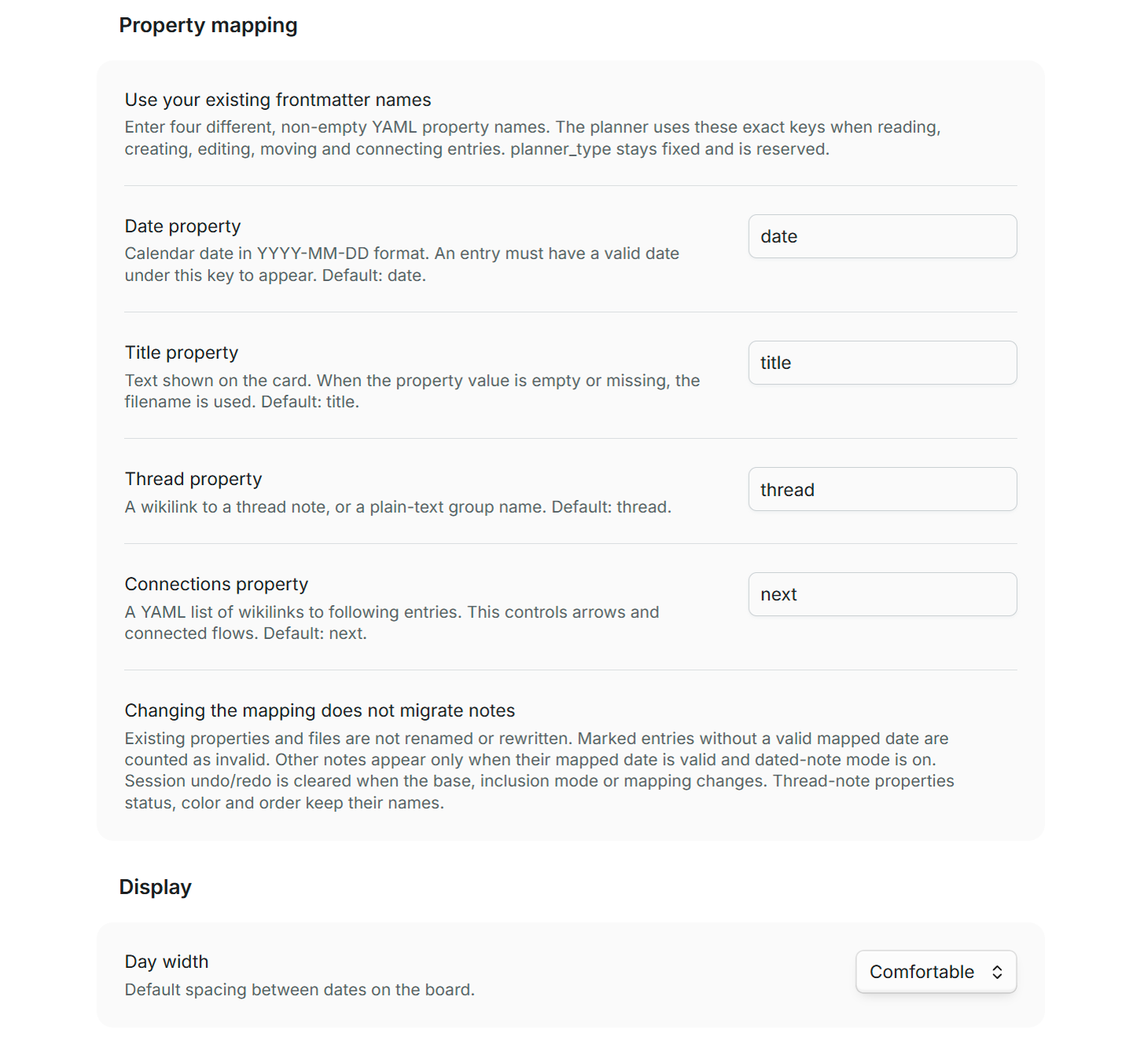
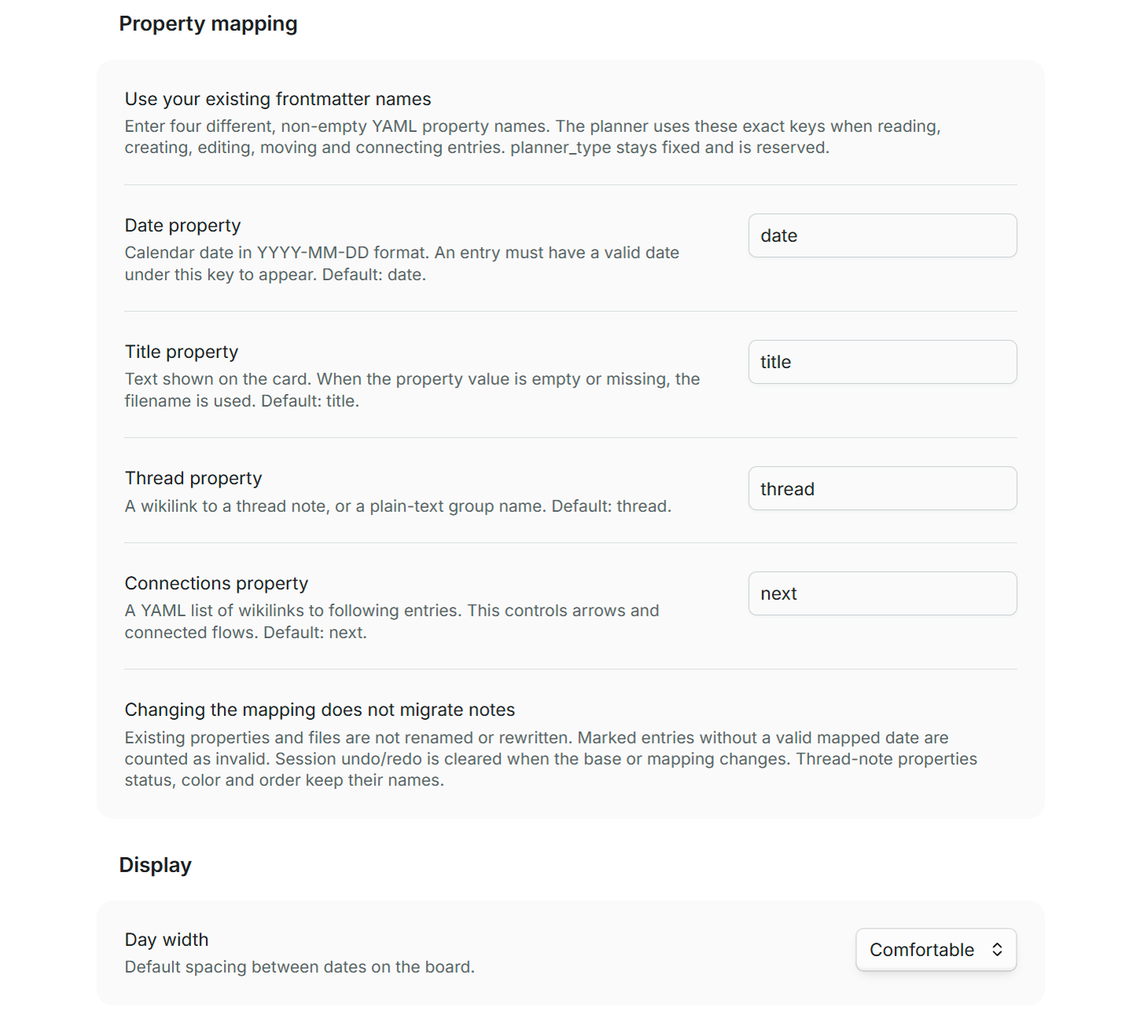
Release 0.3.2: restore explicit planner entries

diff --git a/settings-tab.ts b/settings-tab.ts
@@ -3,8 +3,8 @@ import type JustSimplePlanner from './main';
 import { cloneSettings, creationFolder, DEFAULT_PROPERTIES, ENTRY_PROPERTIES, type PlannerSettings, type EntryProperty } from './settings';
 
 type FieldKey = Exclude<keyof PlannerSettings, 'propertyNames'> | EntryProperty;
-type TextKey = Exclude<FieldKey, 'showAllDatedNotes' | 'dayWidth'>;
-type FieldValue = string | boolean | number;
+type TextKey = Exclude<FieldKey, 'dayWidth'>;
+type FieldValue = string | number;
 interface Field {
   key: FieldKey;
   input: HTMLElement;
@@ -49,8 +49,7 @@ export class PlannerSettingsTab extends PluginSettingTab {
   }
 
   private assign(settings: PlannerSettings, key: FieldKey, value: FieldValue): void {
-    if (key === 'showAllDatedNotes') settings.showAllDatedNotes = Boolean(value);
-    else if (key === 'dayWidth') settings.dayWidth = Number(value);
+    if (key === 'dayWidth') settings.dayWidth = Number(value);
     else if (ENTRY_PROPERTIES.includes(key as EntryProperty)) settings.propertyNames[key as EntryProperty] = String(value);
     else settings[key as 'entryFolder' | 'threadFolder' | 'plannerFolder'] = String(value);
   }
@@ -99,7 +98,7 @@ export class PlannerSettingsTab extends PluginSettingTab {
       } catch (error) {
         if (field.revision !== revision) return;
         const message = error instanceof Error ? error.message : String(error);
-        const immediate = field.key === 'showAllDatedNotes' || field.key === 'dayWidth';
+        const immediate = field.key === 'dayWidth';
         if (immediate) { field.dirty = false; field.set(this.value(this.plugin.settings, field.key)); }
         this.feedback(field, `${message} ${immediate ? 'The previous value is still active.' : 'Not saved; the previous value is still active.'}`, !immediate);
         field.feedback.toggleClass('is-error', true);
@@ -127,7 +126,7 @@ export class PlannerSettingsTab extends PluginSettingTab {
     return [
       {
         heading: 'Planner folders', rows: [
-          { name: 'Saving settings', desc: 'Switches and dropdowns save immediately. Text fields save when you press Enter or leave the field, including when you close settings. Invalid changes show an error beside the field; the last valid configuration stays active.' },
+          { name: 'Saving settings', desc: 'Dropdowns save immediately. Text fields save when you press Enter or leave the field, including when you close settings. Invalid changes show an error beside the field; the last valid configuration stays active.' },
           this.text('plannerFolder', 'Planner folder', 'Common base for searching and creating notes. Default: Planner. Leave empty to search the entire vault and use the vault root as the base. Subfolders are included. Missing folders are created when you save the first new note; existing notes are never moved.', 'Vault root — entire vault'),
           this.text('entryFolder', 'New entries folder', 'Optional subfolder relative to Planner folder. Default: Entries. Leave empty to save entries directly in Planner folder, or in the vault root when both fields are empty.', 'Same as Planner folder'),
           this.text('threadFolder', 'New threads folder', 'Optional subfolder relative to Planner folder. Default: Threads. Leave empty to save thread notes directly in Planner folder, or in the vault root when both fields are empty.', 'Same as Planner folder'),
@@ -136,22 +135,7 @@ export class PlannerSettingsTab extends PluginSettingTab {
       },
       {
         heading: 'Note inclusion', rows: [
-          {
-            name: 'Show all dated notes', desc: 'On: show every note with a valid date in the configured Date property, even without planner_type: entry. Off: include only marked entries. Default: off. Thread notes remain rows, even if they have dates. The Planner folder scope applies in both modes.',
-            render: setting => {
-              const warning = setting.descEl.createEl('p');
-              warning.createEl('strong', { text: 'Performance warning: ' });
-              warning.createSpan({ text: 'In vaults with many files, enabling this option can significantly slow down the interface. Uncheck it to restore normal performance.' });
-              setting.addToggle(toggle => {
-              const field = this.track('showAllDatedNotes', setting, toggle.toggleEl.querySelector('input') ?? toggle.toggleEl, () => toggle.getValue(), value => {
-                toggle.setValue(Boolean(value));
-                const checkbox = toggle.toggleEl.querySelector<HTMLInputElement>('input');
-                if (checkbox) checkbox.checked = Boolean(value);
-              });
-              toggle.onChange(value => { if (!this.synchronizing) { this.edit(field); this.save(field, value); } });
-            }); },
-          },
-          { name: 'Existing dated notes stay ordinary notes', desc: 'Displaying a note never adds planner_type or rewrites its properties. Notes without a thread appear in Unassigned; missing titles use the filename. Editing, completing tasks, connecting or dragging a note changes its original Markdown, using the configured property names. A date can be a creation date rather than a planned date; choose the property you want below.' },
+          { name: 'Only marked planner notes appear', desc: 'Within Planner folder and its subfolders, cards require planner_type: entry and a valid date in the configured Date property. Rows use planner_type: thread, even when empty. A date alone never adds a note to the planner. The thread property determines the row, not the entry\'s subfolder. Missing thread values appear in Unassigned; missing titles use the filename. Changing settings never adds properties to existing notes or moves files.' },
         ],
       },
       {
@@ -161,7 +145,7 @@ export class PlannerSettingsTab extends PluginSettingTab {
           property('title', 'Title property', 'Text shown on the card. When the property value is empty or missing, the filename is used'),
           property('thread', 'Thread property', 'A wikilink to a thread note, or a plain-text group name'),
           property('next', 'Connections property', 'A YAML list of wikilinks to following entries. This controls arrows and connected flows'),
-          { name: 'Changing the mapping does not migrate notes', desc: 'Existing properties and files are not renamed or rewritten. Marked entries without a valid mapped date are counted as invalid. Other notes appear only when their mapped date is valid and dated-note mode is on. Session undo/redo is cleared when the base, inclusion mode or mapping changes. Thread-note properties status, color and order keep their names.' },
+          { name: 'Changing the mapping does not migrate notes', desc: 'Existing properties and files are not renamed or rewritten. Marked entries without a valid mapped date are counted as invalid. Session undo/redo is cleared when the base or mapping changes. Thread-note properties status, color and order keep their names.' },
         ],
       },
       {

diff --git a/main.ts b/main.ts
@@ -131,7 +131,7 @@ export default class JustSimplePlanner extends Plugin {
 
   private hasPlannerMetadata(file: TFile, oldPath?: string): boolean {
     const cache = this.app.metadataCache.getFileCache(file) ?? (oldPath ? this.app.metadataCache.getCache(oldPath) : null);
-    return file.extension === 'md' && isPlannerFrontmatter(cache?.frontmatter, this.settings);
+    return file.extension === 'md' && isPlannerFrontmatter(cache?.frontmatter);
   }
 
   private forget(path: string): void {
@@ -192,7 +192,7 @@ export default class JustSimplePlanner extends Plugin {
       const { frontmatter: fm, body } = unpack(text);
       if (fm.planner_type === 'thread') {
         this.threads.set(file.path, { path: file.path, title: file.basename, status: fm.status === 'parked' || fm.status === 'closed' ? fm.status : 'active', color: typeof fm.color === 'string' ? fm.color : 'blue', order: typeof fm.order === 'number' ? fm.order : 0 });
-      } else if (isEntryFrontmatter(fm, this.settings)) {
+      } else if (isEntryFrontmatter(fm)) {
         const props = readEntryProperties(fm, this.settings.propertyNames);
         if (!validDay(props.date)) { this.invalid.add(file.path); return; }
         const thread = this.resolveLink(props.thread, file.path) ?? (typeof props.thread === 'string' && !wikiTarget(props.thread) ? `text:${props.thread}` : 'unassigned');
@@ -279,7 +279,7 @@ export default class JustSimplePlanner extends Plugin {
       if (patch.expectedBody !== undefined && document.body !== patch.expectedBody) throw new Error('The note was edited elsewhere. Reopen it before saving.');
       const entry = document.frontmatter.planner_type !== 'thread';
       const editsEntry = patch.body !== undefined || ['date', 'title', 'thread', 'next'].some(key => key in (patch.fields ?? {}));
-      if (entry && editsEntry && !isEntryFrontmatter(document.frontmatter, this.settings)) throw new Error('This note is no longer included in the planner. Review the date and Show all dated notes settings.');
+      if (entry && editsEntry && !isEntryFrontmatter(document.frontmatter)) throw new Error('This note is no longer marked as a planner entry.');
       if (patch.expectedDate !== undefined && document.frontmatter[entry ? this.settings.propertyNames.date : 'date'] !== patch.expectedDate) throw new Error('A date changed while dragging. Try again.');
       const fields = entry ? mapEntryFields(patch.fields ?? {}, this.settings.propertyNames) : patch.fields ?? {};
       for (const [key, value] of Object.entries(fields)) {
@@ -303,7 +303,7 @@ export default class JustSimplePlanner extends Plugin {
     const before = await this.app.vault.read(this.file(source));
     if (generation !== this.indexGeneration) throw new Error('Scope or property mapping changed while connecting. Try again.');
     const document = unpack(before);
-    if (!isEntryFrontmatter(document.frontmatter, this.settings)) throw new Error('The source note is no longer included in the planner.');
+    if (!isEntryFrontmatter(document.frontmatter)) throw new Error('The source note is no longer marked as a planner entry.');
     const value = document.frontmatter[this.settings.propertyNames.next];
     const links: string[] = Array.isArray(value) ? value.filter((item): item is string => typeof item === 'string') : [];
     const exists = links.some(link => this.resolveLink(link, source) === target);

diff --git a/settings.ts b/settings.ts
@@ -5,7 +5,6 @@ export interface PlannerSettings {
   threadFolder: string;
   dayWidth: number;
   plannerFolder: string;
-  showAllDatedNotes: boolean;
   propertyNames: PropertyNames;
 }
 
@@ -13,7 +12,7 @@ export const DEFAULT_PROPERTIES: Readonly<PropertyNames> = { date: 'date', title
 export const ENTRY_PROPERTIES: EntryProperty[] = ['date', 'title', 'thread', 'next'];
 
 export function defaultSettings(): PlannerSettings {
-  return { plannerFolder: 'Planner', entryFolder: 'Entries', threadFolder: 'Threads', dayWidth: 190, showAllDatedNotes: false, propertyNames: { ...DEFAULT_PROPERTIES } };
+  return { plannerFolder: 'Planner', entryFolder: 'Entries', threadFolder: 'Threads', dayWidth: 190, propertyNames: { ...DEFAULT_PROPERTIES } };
 }
 
 export function cloneSettings(settings: PlannerSettings): PlannerSettings { return { ...settings, propertyNames: { ...settings.propertyNames } }; }
@@ -35,7 +34,6 @@ export function loadSettings(saved: unknown): PlannerSettings {
       result[key] = !base ? path : path === base ? '' : path.startsWith(`${base}/`) ? path.slice(base.length + 1) : path.split('/').pop() ?? '';
     }
   }
-  if (typeof data.showAllDatedNotes === 'boolean') result.showAllDatedNotes = data.showAllDatedNotes;
   if (typeof data.dayWidth === 'number' && [140, 190, 250].includes(data.dayWidth)) result.dayWidth = data.dayWidth;
   if (data.propertyNames && typeof data.propertyNames === 'object' && !Array.isArray(data.propertyNames)) {
     const names = data.propertyNames as Record<string, unknown>;
@@ -112,5 +110,5 @@ export function mapEntryFields(fields: Record<string, unknown>, names: PropertyN
 }
 
 export function changesIndex(before: PlannerSettings, after: PlannerSettings): boolean {
-  return before.plannerFolder !== after.plannerFolder || before.showAllDatedNotes !== after.showAllDatedNotes || ENTRY_PROPERTIES.some(key => before.propertyNames[key] !== after.propertyNames[key]);
+  return before.plannerFolder !== after.plannerFolder || ENTRY_PROPERTIES.some(key => before.propertyNames[key] !== after.propertyNames[key]);
 }

diff --git a/model.ts b/model.ts
@@ -1,5 +1,3 @@
-import type { PlannerSettings } from './settings';
-
 export interface Entry {
   path: string;
   title: string;
@@ -184,10 +182,10 @@ export class History {
     try { await action(); } finally { this.busy = false; }
   }
 }
-export function isEntryFrontmatter(frontmatter: Record<string, unknown>, settings: PlannerSettings): boolean {
-  return frontmatter.planner_type !== 'thread' && (frontmatter.planner_type === 'entry' || settings.showAllDatedNotes && validDay(frontmatter[settings.propertyNames.date]));
+export function isEntryFrontmatter(frontmatter: Record<string, unknown>): boolean {
+  return frontmatter.planner_type === 'entry';
 }
 
-export function isPlannerFrontmatter(frontmatter: Record<string, unknown> | undefined, settings: PlannerSettings): boolean {
-  return Boolean(frontmatter && (frontmatter.planner_type === 'thread' || isEntryFrontmatter(frontmatter, settings)));
+export function isPlannerFrontmatter(frontmatter: Record<string, unknown> | undefined): boolean {
+  return Boolean(frontmatter && (frontmatter.planner_type === 'thread' || isEntryFrontmatter(frontmatter)));
 }

diff --git a/view.ts b/view.ts
@@ -275,7 +275,7 @@ export class PlannerView extends ItemView implements HoverParent {
       const empty = this.scroll.createDiv({ cls: 'jsp-empty' });
       const issue = this.plugin.configurationIssue();
       empty.createEl('h3', { text: issue ? 'Review planner settings' : this.plugin.entries.size || this.plugin.threads.size ? 'No matching threads' : 'Your notes, over time' });
-      empty.createEl('p', { text: issue ?? 'Create a thread or entry. Planner folder sets the scope; leave it empty for the whole vault. Enable Show all dated notes to include existing notes with a valid date.' });
+      empty.createEl('p', { text: issue ?? 'Create a thread or entry. Only notes marked planner_type: entry or planner_type: thread are included. Entries also need a valid date. Planner folder sets the scope, including its subfolders; leave it empty to find marked notes across the vault.' });
       this.button(empty, 'New thread', 'plus', () => new ThreadModal(this.app, this.plugin).open());
     }
     if (this.showTasks) this.renderTasks(entries, rows);

diff --git a/README.md b/README.md
@@ -7,7 +7,7 @@
 A visual timeline for Obsidian: projects in rows, days in columns, and every card an ordinary Markdown note.
 
 [![Check plugin](https://github.com/DavidHurtadoAI/just-simple-planner/actions/workflows/check.yml/badge.svg)](https://github.com/DavidHurtadoAI/just-simple-planner/actions/workflows/check.yml)
-![Version](https://img.shields.io/badge/version-0.3.1-4c819a)
+![Version](https://img.shields.io/badge/version-0.3.2-4c819a)
 ![Obsidian](https://img.shields.io/badge/Obsidian-1.10.2%2B-7c3aed)
 [![License: MIT](https://img.shields.io/badge/license-MIT-16a34a)](LICENSE)
 ![Runtime dependencies](https://img.shields.io/badge/runtime_dependencies-0-0891b2)
@@ -124,7 +124,7 @@ gh attestation verify styles.css --repo DavidHurtadoAI/just-simple-planner
 
 ## Settings
 
-Settings use English labels and defaults and save automatically. **Switches and dropdowns save immediately. Text fields save when you press Enter or leave the field, including when you close settings.** Each field shows save feedback or a validation error. Invalid changes leave the last valid configuration active; a switch or dropdown that cannot be saved returns to its active value. Folder settings from older versions are adapted as described below; zoom and property mapping are retained.
+Settings use English labels and defaults and save automatically. **Dropdowns save immediately. Text fields save when you press Enter or leave the field, including when you close settings.** Each field shows save feedback or a validation error. Invalid changes leave the last valid configuration active; a dropdown that cannot be saved returns to its active value. Folder settings from older versions are adapted as described below; zoom and property mapping are retained.
 
 ### Planner folders: one common base
 
@@ -138,17 +138,15 @@ For example, with Planner folder `Cursos/IA`, entries go to `Cursos/IA/Entries` 
 
 Missing folders are created when you save the first new note. Absolute paths, parent traversal and paths through an existing file are rejected. Changing settings never moves existing files. Thread membership still comes from a property; folders determine scope and storage.
 
-### Show all dated notes
+### Only marked planner notes appear
 
-**Show all dated notes** is off by default. With it off, cards require `planner_type: entry` and a valid mapped date. Turn it on to include **any note with a valid calendar date in the configured Date property**, even if it has no planner type or a different type. The Planner folder scope applies in both modes.
+Within **Planner folder** and its subfolders, cards require **`planner_type: entry`** and a valid calendar date in the configured **Date property**. Rows use **`planner_type: thread`**, including threads without entries. An empty Planner folder searches for these marked notes across the vault.
 
-Thread notes marked `planner_type: thread` remain rows, even when they have dates. Missing thread values appear under **Unassigned**, and missing titles fall back to the filename. Ordinary notes with invalid dates or a different date key are excluded.
+A date alone never adds a note to the planner. The `thread` property determines the row, independently of the entry's subfolder. Missing thread values appear under **Unassigned**; missing titles fall back to the filename.
 
-**Performance warning:** in vaults with many files, enabling this option can significantly slow down the interface. Uncheck **Show all dated notes** to restore normal performance.
+**Updating from 0.3.0 or 0.3.1:** Show all dated notes has been removed. Its saved value is ignored. Notes that appeared only because of that option are no longer shown; their files, dates and other properties are unchanged. Adding existing notes through a picker or external drag and drop is deferred.
 
-**Displaying a note does not modify it or add planner_type.** Editing, completing tasks, connecting or dragging a card writes to that original Markdown note using the mapped property names. A date can represent creation or publication rather than a plan; choose the property you want to visualize.
-
-![The common Planner folder, optional relative subfolders and Show all dated notes](docs/images/settings-scope.png)
+![The common Planner folder, optional relative subfolders and explicit planner-note inclusion](docs/images/settings-scope.png)
 
 ### Property mapping: use your existing frontmatter names
 
@@ -161,7 +159,7 @@ Thread notes marked `planner_type: thread` remain rows, even when they have date
 
 For example, select `scheduled`, `headline`, `project` and `following` if those are the keys you already use. The mapping applies to reading, creating, editing, moving and connecting entries, including task edits. Keys must be non-empty and different; `planner_type` stays fixed and is reserved. Thread notes keep `status`, `color` and `order`.
 
-**Changing the mapping does not migrate notes.** Existing properties are not renamed or rewritten. Marked entries without a valid mapped date are counted as invalid and excluded. Ordinary notes qualify only while their mapped date is valid and dated-note mode is enabled. Missing title values use the filename; missing thread values are unassigned; missing connections produce no arrows. Restore the previous mapping to read the previous schema again, or deliberately update your notes yourself. Changes to Planner folder, dated-note inclusion or property mapping clear session undo/redo so old actions cannot modify notes under a different configuration.
+**Changing the mapping does not migrate notes.** Existing properties are not renamed or rewritten. Marked entries without a valid mapped date are counted as invalid and excluded. Missing title values use the filename; missing thread values are unassigned; missing connections produce no arrows. Restore the previous mapping to read the previous schema again, or deliberately update your notes yourself. Changes to Planner folder or property mapping clear session undo/redo so old actions cannot modify notes under a different configuration.
 
 **Day width** chooses the default zoom. Changes to creation subfolders or zoom keep the current note schema and undo history.
 
@@ -222,11 +220,11 @@ Moving an entry to another folder does not change its thread. Use Obsidian's nor
 
 The plugin has **zero runtime package dependencies** and makes no network requests of its own. It has no account, telemetry, analytics or remote database. Bodies, dates, thread membership and connections live in Markdown. Settings hold search scope, property names, creation folders and zoom; Obsidian's workspace holds view layout.
 
-**Vault discovery:** an empty **Planner folder** lists Markdown paths and checks cached frontmatter across the vault. A named Planner folder walks only that subtree. Bodies are read for marked planner notes and, when Show all dated notes is enabled, qualifying dated notes in scope. Discovery runs on load and when the base, inclusion mode or property mapping changes; later refreshes revisit known paths. Metadata and rename events discover newly included notes and remove notes that no longer qualify or leave the scope. Unrelated notes are not parsed or opened on edit/rename. The community scanner can still report **Vault Enumeration** because whole-vault discovery remains available. Nothing is uploaded or shared.
+**Vault discovery:** an empty **Planner folder** lists Markdown paths and checks cached frontmatter across the vault. A named Planner folder walks only that subtree. Bodies are read only for marked planner notes in scope. Discovery runs on load and when the base or property mapping changes; later refreshes revisit known paths. Metadata and rename events discover newly included notes and remove notes that no longer qualify or leave the scope. Unrelated notes are not parsed or opened on edit/rename. The community scanner can still report **Vault Enumeration** because whole-vault discovery remains available. Nothing is uploaded or shared.
 
 Writes compare the note with its snapshot before saving. A concurrent edit causes a conflict instead of being silently overwritten. Multi-note operations try to roll back earlier writes if a later write fails; a rollback conflict is reported for review. This is optimistic conflict protection, not a filesystem-wide transaction.
 
-Undo history is in memory, capped at 40 operations and cleared on plugin reload or when Planner folder, dated-note inclusion or property mapping changes. It covers edits, moves, connections and task completion. **Creating a note is not undone by deleting it**; the plugin never deletes your notes. YAML values and Markdown content are retained, although YAML formatting and comments may be normalized when properties are edited.
+Undo history is in memory, capped at 40 operations and cleared on plugin reload or when Planner folder or property mapping changes. It covers edits, moves, connections and task completion. **Creating a note is not undone by deleting it**; the plugin never deletes your notes. YAML values and Markdown content are retained, although YAML formatting and comments may be normalized when properties are edited.
 
 ## The story and the credit
 

diff --git a/docs/OBSIDIAN_REVIEW.md b/docs/OBSIDIAN_REVIEW.md
@@ -5,7 +5,7 @@ Reviewed on 2026-10-30 against the official [developer policies](https://docs.ob
 ## Community recommendations — 0.1.2
 
 - Release files are built and attested by [a GitHub-hosted release workflow](../.github/workflows/release.yml), then verified before those same files are published. Actions are pinned by SHA and signing/publishing permissions are job-scoped. See GitHub's [provenance documentation](https://docs.github.com/en/actions/how-tos/secure-your-work/use-artifact-attestations/use-artifact-attestations).
-- **Vault Enumeration** is an explicit optional capability. A named Planner folder limits discovery to that subtree; an empty base searches the whole vault. Bodies are read for marked planner notes and, when Show all dated notes is enabled, notes with a valid mapped date. Thread notes remain rows. Discovery runs on load and on base, inclusion or mapping changes; later refreshes revisit known paths while metadata and rename events discover new candidates. The README discloses both scope and inclusion modes.
+- **Vault Enumeration** is an explicit optional capability. A named Planner folder limits discovery to that subtree; an empty base searches the whole vault. Bodies are read only for marked planner notes in scope. A date alone never adds a note. Thread notes remain rows. Discovery runs on load and on base or mapping changes; later refreshes revisit known paths while metadata and rename events discover new candidates. The README discloses the scope and required entry/thread markers.
 - The container uses a scoped selector instead of `!important`; the package audit rejects that CSS override.
 
 ## Code and lifecycle
@@ -17,7 +17,7 @@ Reviewed on 2026-10-30 against the official [developer policies](https://docs.ob
 - UI uses sentence case, theme variables and namespaced CSS. Inline values describe computed timeline geometry or user-selected colors. Commands have stable IDs and no default global hotkeys.
 - Settings are searchable through definitions on Obsidian 1.13+, with an imperative fallback for older supported versions. Creation paths are normalized and remain inside the vault.
 - The three folder fields are explained in English: a common Planner folder and two optional relative creation subfolders. Empty base means the entire vault; empty children save directly in the base. Missing folders are created on note creation; absolute paths, traversal and file collisions are rejected. Legacy scope is retained, existing destinations inside it become relative, and out-of-base legacy destinations are rebased with a notice. Existing notes are never moved.
-- Settings autosave with inline validation, serialized saves and in-place synchronization. Property keys remain configurable and protected against reserved names. Show all dated notes changes inclusion without adding metadata; edits, tasks, moves and connections use mapped keys for ordinary notes too. Base, inclusion and schema changes clear session undo/redo and reject stale in-flight reads. Zoom and property mappings survive migration.
+- Settings autosave with inline validation, serialized saves and in-place synchronization. Property keys remain configurable and protected against reserved names. Only explicit entry/thread markers are indexed; edits, tasks, moves and connections retain mapped keys. Legacy dated-note settings are ignored without modifying notes. Base and schema changes clear session undo/redo and reject stale in-flight reads. Zoom and property mappings survive migration.
 
 ## Privacy, licensing and packaging
 

diff --git a/TESTING.md b/TESTING.md
@@ -1,5 +1,17 @@
 # Validation
 
+## Explicit planner notes — 0.3.2
+
+On 2026-10-31, `npm run check` passed all twenty-nine unit tests, official Obsidian lint, strict TypeScript, the production build and package checks. The bundle is 59.5 KiB. Central installation and verification passed for 0.3.2 in the canonical `@Nexus-dev` vault.
+
+The updated `scripts/qa-settings.mjs` passed twenty-six native checks. Notes with a valid mapped date but no entry marker, and notes with other marker values, stay excluded; the planner does not load their bodies. Changing an ordinary note's date never opts it in, stale edits and connections are rejected, removing an entry marker opts out, and marked entries still require a valid mapped date. Dated thread notes remain rows, and empty threads survive changing the Planner folder away and back. Unit tests verify that older saved dated-note flags are ignored while paths, mappings and input data are preserved.
+
+The same native suite retained folder scope, relative creation paths, custom property names, modal editing, connections, task changes, exact undo, validation and serialized autosave. Body-read assertions instrument the planner's reader so reads made by other Obsidian components are not attributed to this plugin. The suite restored all original note bytes, the view and the saved settings; additive Spanish fixtures remain archived. The demo retains twenty entries and four threads, with no captured Obsidian errors.
+
[1 lines of base64/hex data omitted]
+
+The sections below record historical validation for their respective versions; dated-note mode was removed in 0.3.2.
+
 ## Dated-note performance warning — 0.3.1
 
 On 2026-10-31, `npm run check` passed all twenty-eight tests, official lint, strict TypeScript, build and package checks. Central installation/verification passed. The warning was checked in the installed settings panel and its native screenshot inspected: it explains that many files can significantly slow the interface and that unchecking the option restores normal performance. The demo retains twenty entries and four threads with no captured errors; screenshot capture preserves the saved settings bytes.

diff --git a/.github/release-notes/0.3.2.md b/.github/release-notes/0.3.2.md
@@ -1,0 +1,11 @@
+Remove **Show all dated notes** and return to explicit planner entries.
+
+Cards require `planner_type: entry` and a valid date in the configured Date property. Thread notes use `planner_type: thread`. The common Planner folder, its optional entry/thread subfolders, property mapping and automatic settings saving remain unchanged.
+
+**Updating from 0.3.0 or 0.3.1:** the removed setting is ignored. Notes previously shown only because they had a date will disappear from the planner; their files and properties are preserved. Existing-note picker and external drag and drop remain deferred.
+
+The settings help, README and screenshots explain the marked-note model.
+
+Validated with twenty-nine unit tests, official Obsidian lint, strict TypeScript, package checks and twenty-six native checks in the canonical development vault. The original demo notes and saved settings are preserved.
+
+Requires Obsidian 1.10.2 or later. Install `main.js`, `manifest.json` and `styles.css` below. GitHub Actions builds, checks, attests and verifies all three files before publication.

diff --git a/CHANGELOG.md b/CHANGELOG.md
@@ -1,5 +1,12 @@
 # Changelog
 
+## 0.3.2 — 2026-10-31
+
+- Remove Show all dated notes and its performance warning. Cards again require planner_type: entry and a valid configured date; thread notes remain rows.
+- Ignore the removed setting in older configurations without rewriting or moving notes. Notes included only by their date no longer appear.
+- Keep the common Planner folder, relative creation subfolders, configurable property names and autosave behavior.
+- Update settings help, the README and native settings screenshots. Existing-note picker and external drag and drop remain deferred.
+
 ## 0.3.1 — 2026-10-31
 
 - Add a performance warning beside Show all dated notes, explaining that large vaults may slow down the interface and that unchecking the option restores normal performance.
